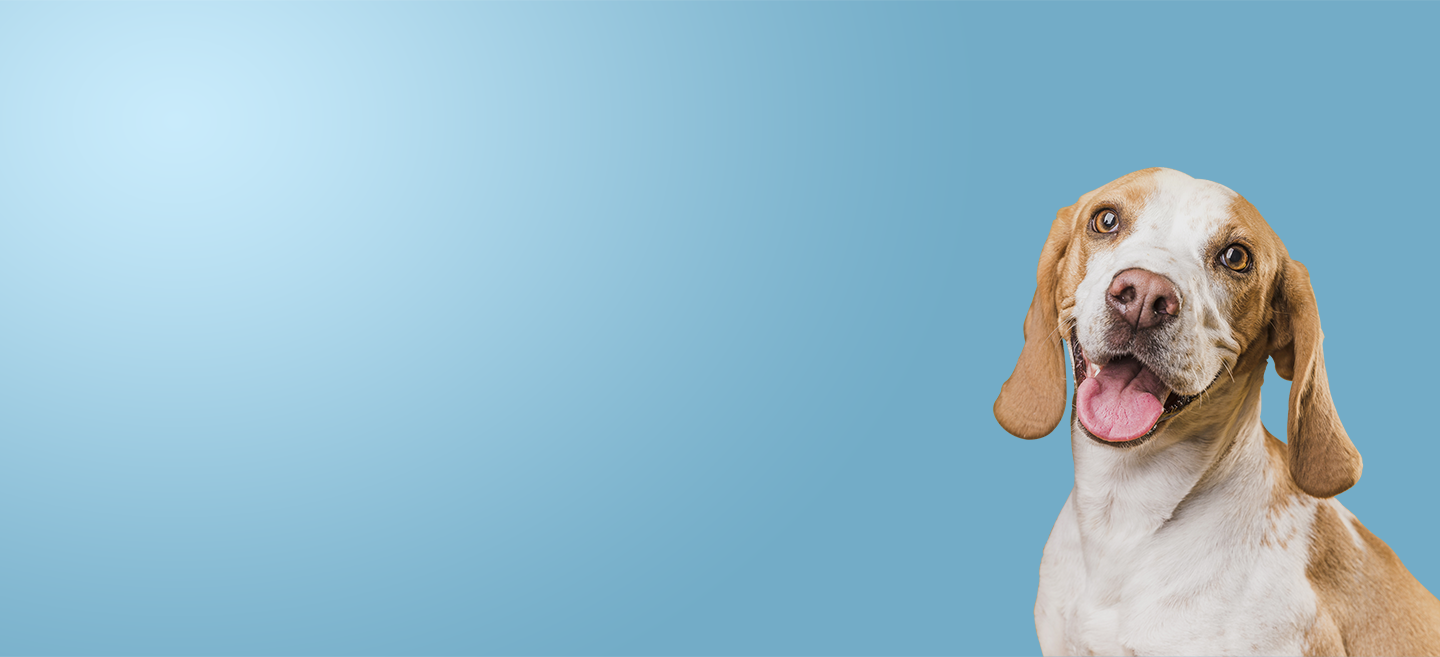
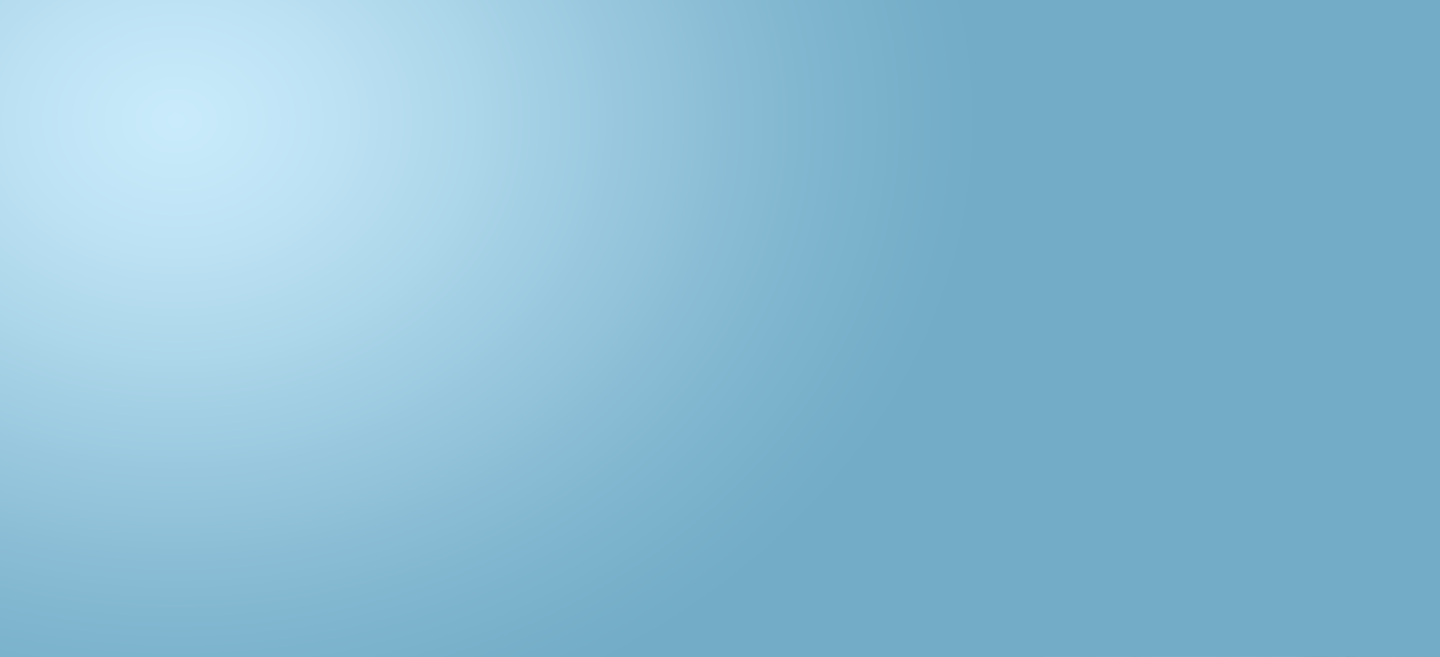
finish header component

Changed region(s): [[0.6875, 0.2435, 1.0, 1.0]]

diff --git a/src/styles/_header.scss b/src/styles/_header.scss
@@ -1,11 +1,16 @@
 .header {
   @include size(100%, 657px);
-  position: relative;
+  @include hero-img('../images/hero-img.png');
  
   /*  container component  */
   &__container {
-    @include size(100%);
-    @include hero-img('../images/hero-img.png');
+    @include size(1440px, 100%);
+    @include block_center;
+    padding: {
+      left: 70px;
+      right: 70px;
+    }
+    position: relative;
   }
 
   /*  top-bar component  */
@@ -17,8 +22,6 @@
   &__top-bar--padding {
     padding: {
       top: 35px;
-      left: 70px;
-      right: 70px;
     }
   }
 
@@ -40,7 +43,10 @@
 
   &__link {
     @include link(uppercase);
-    @include font-f-w-s($montserrat-font, 700);
+    @include font-f-w-s(
+      $montserrat-font, 600, 16.67px,
+      2px
+    );
     margin: {
       left: 25px;
       right: 25px;
@@ -54,5 +60,36 @@
   /*  Prodcut brand component  */
   &__product-brand {
     @include absolute(245px,0,0,-32px);
+  }
+
+  /*  Pet brand component  */
+  &__pet {
+    display: inline-block;
+    @include absolute(0,-48px,-4px,0);
+  }
+
+  /*  Caption component  */
+  &__caption {
+    margin: {
+      top: 60px;
+      left: 480px;
+    }
+    position: relative;
+
+    &--style {
+      @include font-f-w-s(
+        $amatic-font,
+        400, 41.67px, 0, $color-title
+      );
+    }
+
+    & span {
+      color: $color-bold;
+      font-weight: 700;
+    }
+
+    & img {
+      @include absolute(130px,0,0,-110px);
+    }
   }
 }

diff --git a/src/components/header.js b/src/components/header.js
@@ -1,5 +1,7 @@
 import LogoIMG from '../images/logo.png'
 import PB from '../images/food-box.png'
+import PetIMG from '../images/pet-img.png'
+import TIMG from '../images/title.png'
 
 export default function Header () {
   return (
@@ -11,6 +13,9 @@ export default function Header () {
         </TopBar>
 
         <ProductBrand />
+        <Caption />
+
+        <Pet />
       </Container>
     </header>
   );
@@ -28,6 +33,23 @@ function TopBar (props) {
   return (
     <div className="header__top-bar header__top-bar--padding">
       {props.children}
+    </div>
+  )
+}
+
+function Caption () {
+  return (
+    <div className="header__caption header__caption--style">
+      Help your Dog Maintain <p>a <span>Healthier Weight</span> with</p>
+      <img src={TIMG} alt='caption' />
+    </div>
+  )
+}
+
+function Pet () {
+  return (
+    <div className="header__pet">
+      <img src={PetIMG} alt='Pet' />
     </div>
   )
 }

diff --git a/src/styles/layout.scss b/src/styles/layout.scss
@@ -1,7 +1,9 @@
 // Variables
 $background-color: white;
-$amatic-font: 'Amatic+SC';
+$amatic-font: 'Amatic SC';
 $montserrat-font: 'Montserrat';
+$color-title: #452a31;
+$color-bold: #0072a8;
 
 // Importing the support package
 @import 'mixin';
@@ -12,6 +14,5 @@ $montserrat-font: 'Montserrat';
 
 // Layout style
 .layout {
-  @include size(1440px, auto);
-  @include block_center;
+  @include size(100%, auto);
 }

diff --git a/src/styles/_mixin.scss b/src/styles/_mixin.scss
@@ -67,7 +67,8 @@
 
 //6. Font style
 @mixin font_f-w-s (
-  $family: 0, $weight: 0, $size: 0
+  $family: 0, $weight: 0, $size: 0,
+  $spacing: 0, $color: 0
 ) {
   @if $family != 0 {
     font-family: $family;
@@ -79,6 +80,14 @@
 
   @if $size != 0 {
     font-size: $size;
+  }
+
+  @if $spacing != 0 {
+    letter-spacing: $spacing;
+  }
+
+  @if $color != 0 {
+    color: $color;
   }
 }
 
